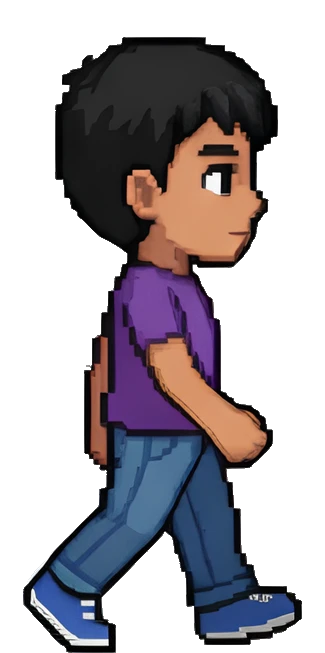
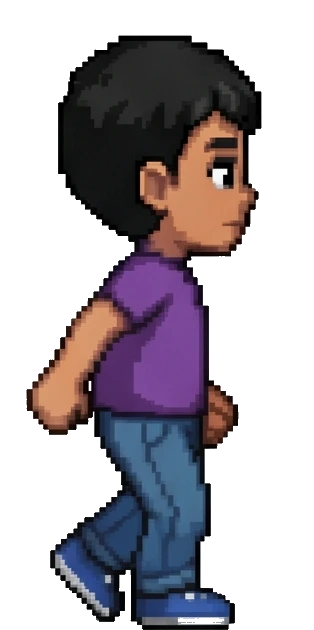
feat(jogo): personagem com quadro parado e andar novo
- quadros novos de andar (314 × 630) e um quadro "parado" por direção
- parado usa {dir}-parado (pernas juntas, virado para a última direção);
  ao andar começa no quadro 1 e volta ao parado na hora em que para
- colegas online parados e o personagem do duelo também usam o parado
- quadros parados entram no pré-carregamento

diff --git a/js/jogo-revisao.js b/js/jogo-revisao.js
@@ -997,7 +997,7 @@ function criarColega(uid, r) {
   const nome = mk('div', 'jr-colega-nome jr-colega');
   nome.textContent = r.apelido || '';
   const c = { uid, reg: r, el, nome, petImg, sombra, x: Number(r.x) || 0, y: Number(r.y) || 0, de: null, alvo: null, t0: 0,
-    dir: r.dir || 'frente', quadro: 0, tQuadro: 0, reacaoT: Number(r.reacao?.t) || 0, pet: null, seg: new PetSeguidor(petImg, sombra) };
+    dir: r.dir || 'frente', quadro: -1, tQuadro: 0, reacaoT: Number(r.reacao?.t) || 0, pet: null, seg: new PetSeguidor(petImg, sombra) };
   sombra.hidden = petImg.hidden = true;
   colegas.set(uid, c);
   definirPetColega(c, r.pet);
@@ -1044,9 +1044,10 @@ function atualizarColegas(dt) {
     }
     // continua o passo um pouco depois do último ponto (os envios chegam a cada 250 ms)
     if (andando || agora - c.t0 < TEMPO_INTERP + 120) {
+      if (c.quadro < 0) { c.quadro = 0; c.tQuadro = 0; }
       c.tQuadro += dt * 1000;
       if (c.tQuadro >= T_QUADRO) { c.tQuadro = 0; c.quadro = (c.quadro + 1) % 4; }
-    } else c.quadro = 0;
+    } else c.quadro = -1;   // colega parado: pernas juntas
     const src = urlQuadro(DIRECOES.includes(c.dir) ? c.dir : 'frente', c.quadro);
     if (c.el.dataset.src !== src) { c.el.src = src; c.el.dataset.src = src; }
     c.el.hidden = c.nome.hidden = false;
@@ -1318,9 +1319,10 @@ function atualizarBotaoCalado() {
 }
 
 function preCarregarQuadros() {
-  for (const d of DIRECOES) for (let i = 1; i <= 4; i++) { const im = new Image(); im.src = urlQuadro(d, i - 1); }
+  for (const d of DIRECOES) for (let i = 0; i <= 4; i++) { const im = new Image(); im.src = urlQuadro(d, i - 1); }   // parado + 4 de andar
 }
-const urlQuadro = (dir, q) => `${IMG}/personagem-principal/${dir}-${q + 1}.webp`;
+// quadro −1 = parado (pernas juntas); 0..3 = ciclo de andar
+const urlQuadro = (dir, q) => `${IMG}/personagem-principal/${dir}-${q < 0 ? 'parado' : q + 1}.webp`;
 
 function mostrarTela(id) {
   for (const t of document.querySelectorAll('.jr-tela')) t.hidden = t.id !== id;
@@ -1639,7 +1641,7 @@ function ligarArrasteGeral() {
 // ============================================================
 let cena = null;   // { tipo:'mapa'|'interior', ... }
 const cam = { s: 1, tx: 0, ty: 0 };
-const jog = { x: 0, y: 0, dir: 'frente', quadro: 0, tQuadro: 0, caminho: [], aoChegar: null };
+const jog = { x: 0, y: 0, dir: 'frente', quadro: -1, tQuadro: 0, caminho: [], aoChegar: null };
 let perguntaAberta = false;
 
 function ajustarCamera() {
@@ -1680,7 +1682,7 @@ function imagemParaTela(x, y) {
 function posicionarJogador(x, y, dir) {
   jog.x = x; jog.y = y;
   if (dir) jog.dir = dir;
-  jog.caminho = []; jog.aoChegar = null; jog.quadro = 0;
+  jog.caminho = []; jog.aoChegar = null; jog.quadro = -1;
   desenharJogador();
   seguidor?.colocar(x, y);
 }
@@ -1726,6 +1728,7 @@ function vetorEntrada() {
 }
 
 function animarPasso(dt) {
+  if (jog.quadro < 0) { jog.quadro = 0; jog.tQuadro = 0; return; }   // começou a andar: quadro 1 na hora
   jog.tQuadro += dt * 1000;
   if (jog.tQuadro >= T_QUADRO) { jog.tQuadro = 0; jog.quadro = (jog.quadro + 1) % 4; }
 }
@@ -1767,7 +1770,7 @@ function moverDireto(dt, vx, vy) {
   }
   jog.dir = Math.abs(vy) > Math.abs(vx) ? (vy > 0 ? 'frente' : 'costas') : (vx > 0 ? 'direita' : 'esquerda');
   if (jog.x !== x0 || jog.y !== y0) animarPasso(dt);
-  else jog.quadro = 0;
+  else jog.quadro = -1;
   desenharJogador();
   return true;
 }
@@ -1861,7 +1864,7 @@ function loop(t) {
 
 function passo(dt) {
   if (!jog.caminho.length) {
-    if (jog.quadro !== 0) { jog.quadro = 0; desenharJogador(); }
+    if (jog.quadro !== -1) { jog.quadro = -1; desenharJogador(); }
     return;
   }
   let resta = VEL * dt;
@@ -1881,7 +1884,7 @@ function passo(dt) {
   }
   animarPasso(dt);
   if (!jog.caminho.length) {
-    jog.quadro = 0;
+    jog.quadro = -1;
     const cb = jog.aoChegar; jog.aoChegar = null;
     desenharJogador();
     if (cb) cb();
@@ -2565,7 +2568,7 @@ function montarArena() {
   const rev = pg.modo === 'revisao';
   pg.status = {};   // posição da pergunta → 'certa' (de primeira) | 'errada'
   $('perg-caixa').classList.toggle('revisao', rev);
-  $('perg-jog').src = urlQuadro('direita', 0);
+  $('perg-jog').src = urlQuadro('direita', -1);   // no duelo, de pé virado para o adversário
   const pet = petsOk && petValido(estado?.pets?.ativo) ? estado.pets.ativo : null;
   $('perg-pet').hidden = !pet;
   document.querySelector('.jr-arena-sombra.pet').hidden = !pet;
